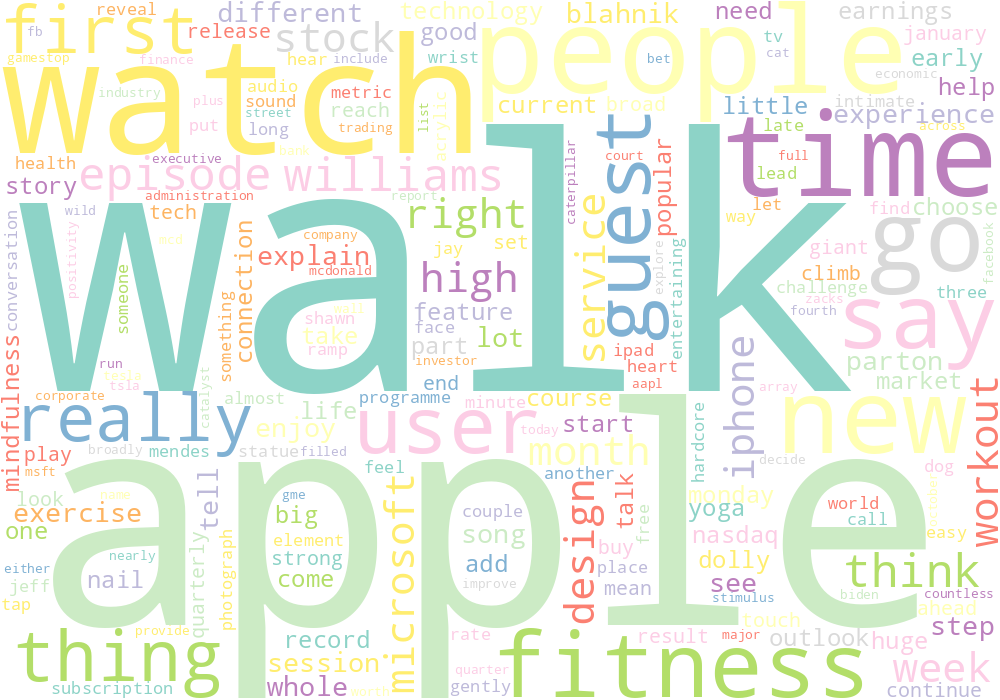
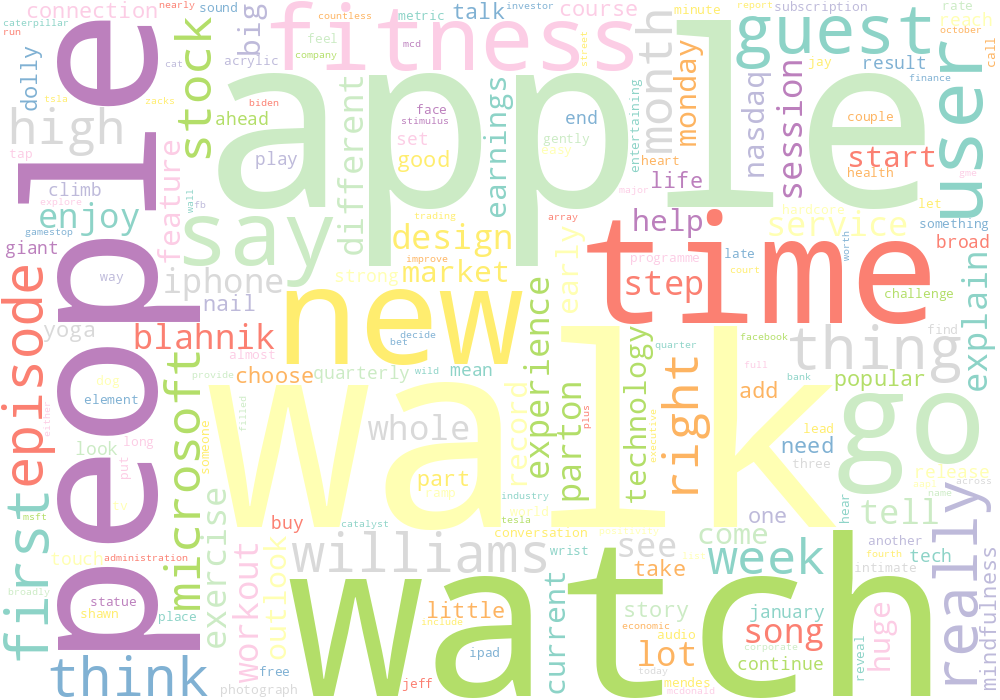
setup article link request workflow

diff --git a/stockAnalyze.py b/stockAnalyze.py
@@ -1,4 +1,5 @@
 import yfinance as yf
+import requests
 from datetime import date
 
 def extractBasicInfo(data):
@@ -19,33 +20,41 @@ def getDailyPriceHistory(tickerSymbol):
     company = yf.Ticker(tickerSymbol)
     hist = company.history(period="12mo", interval="1d")
     prices = hist[["Open"]]
-    print(prices.to_string())
+    return prices
 
 
 def getEarningsDate(tickerSymbol):
     company = yf.Ticker(tickerSymbol)
     earningsDates = company.get_earnings_dates(limit=12)
     futureDates = earningsDates[earningsDates.index.date >= date.today()]
-    for earningsDate in futureDates.index:
-        print('EARNINGS DATE: '+ str(earningsDate.date()))
+    return futureDates
 
 def getCompanyNews(tickerSymbol):
     articles = yf.Search(tickerSymbol, news_count=10).news
+    return articles
 
     for article in articles:
         print(article["title"])
         print(article["link"])
         print()
-
+        
+headers = {
+    'User-Agent': 'Mozilla/5.0 (Windows NT 10.0; Win64; x64) AppleWebKit/537.36 (KHTML, like Gecko) Chrome/154.0.0.0 Safari/537.36' 
+}
+def extractCompanyNewsArticle(companynews):
+    url = companynews[0]['link']
+    page = requests.get(url, headers=headers)
+    print(page.text)
+    #print(url)
 
 def getCompanyStockInfo(tickerSymbol):
     company = yf.Ticker(tickerSymbol)
     basicInfo = extractBasicInfo(company.info)
 
-    print(basicInfo)
+    
     priceHistory = getDailyPriceHistory(tickerSymbol)
-    EarningsDate = getEarningsDate(tickerSymbol)
-    CompanyNews = getCompanyNews(tickerSymbol)
-
+    earningsDate = getEarningsDate(tickerSymbol)
+    companynews = getCompanyNews(tickerSymbol)
+    extractCompanyNewsArticle(companynews)
 
 getCompanyStockInfo("MSFT")
